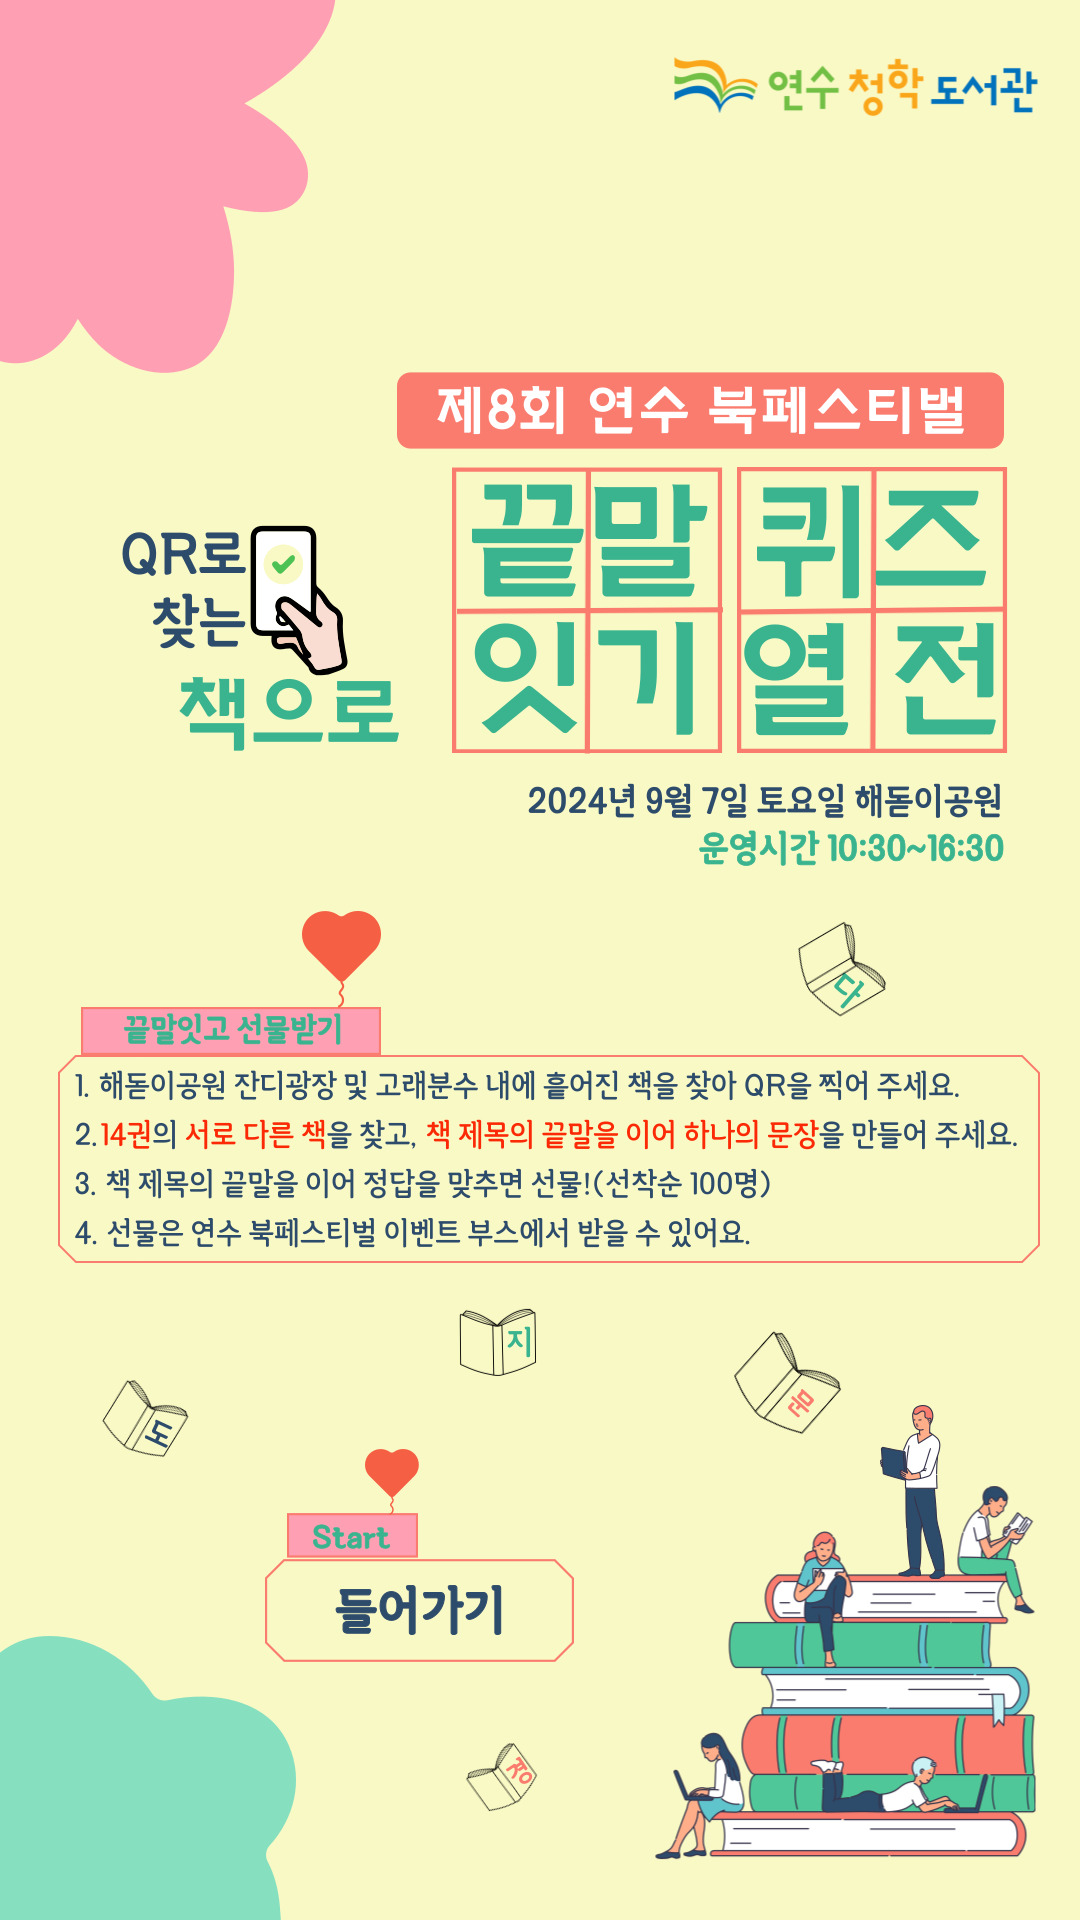
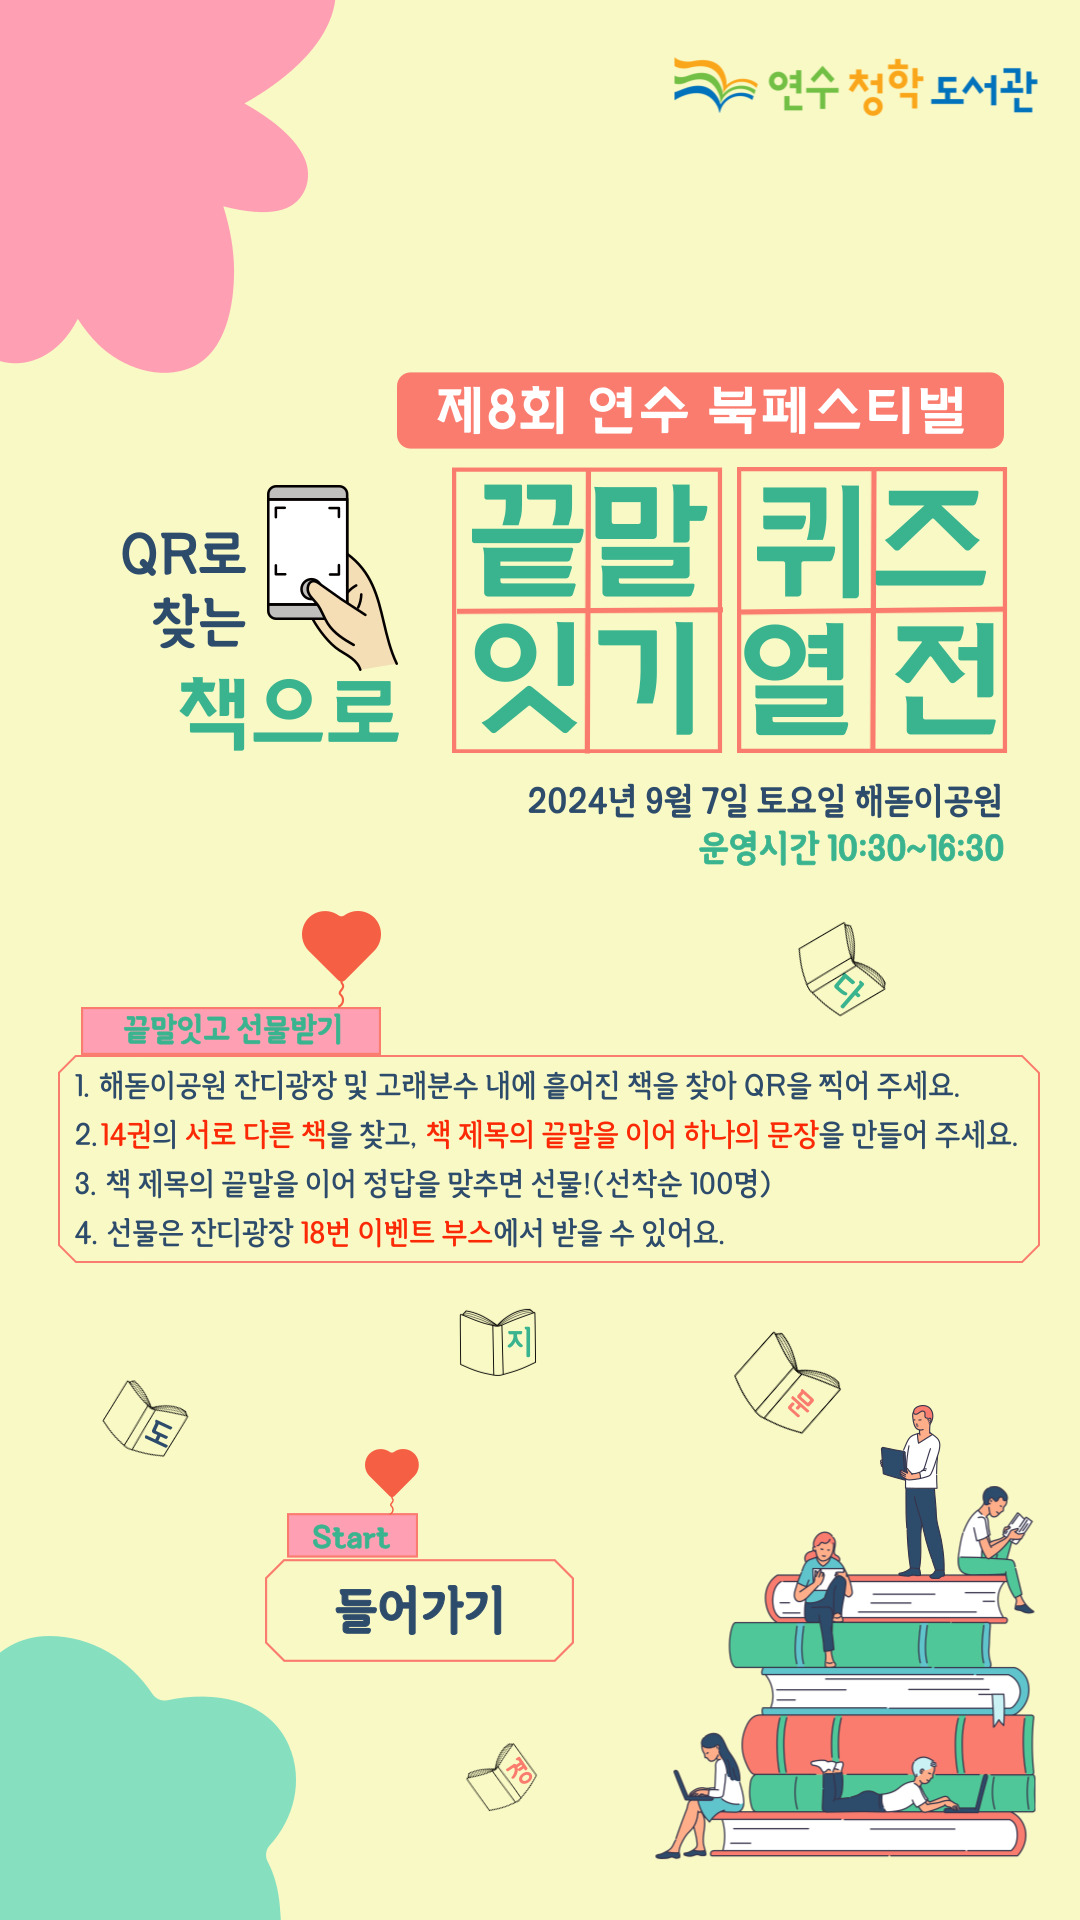
Add files via upload

Changed region(s): [[0.1833, 0.625, 0.7028, 0.6562], [0.2139, 0.25, 0.3667, 0.375]]

diff --git a/quizword/quizword.html b/quizword/quizword.html
@@ -29,7 +29,8 @@
             <area target="_self" href="javascript:void(0);" onclick="checkPosition(13);" coords="792,1608,912,1726" shape="rect" />
             <area target="_self" href="javascript:void(0);" onclick="checkPosition(14);" coords="506,1697,624,1818" shape="rect" />
 
-            <area target="_self" href="javascript:void(0);" onclick="initCookie();" coords="422,157,626,320" shape="rect /">
+            <area target="_self" alt="" href="javascript:void(0);" onclick="gift();" coords="432,165,627,347" shape="rect">
+            <area target="_self" href="javascript:void(0);" onclick="initCookie();" coords="919,257,992,335" shape="rect /">
 
             <area target="_self" href="javascript:void(0);" onclick="quizWord(1);" coords="46,519,228,582" shape="rect" />
             <area target="_self" href="javascript:void(0);" onclick="quizWord(2);" coords="265,519,388,582" shape="rect" />
@@ -105,7 +106,7 @@
         if (!checkAllWord) {
             $('#quizWordImg').after(
             '<div style="position: absolute; top: 20%; left: 3%; background-color: #f9f9c5; width: 95%; height: 13%; font-size: 4.5vw">' +
-            '<p>각 자물쇠를 클릭하고 책표지 QR을 스캔하여</p><p style="margin-top: -20px;">끝말을 획득하세요.</p>' +
+            '<p>각 자물쇠를 클릭한 후 책표지 QR을 스캔하여</p><p style="margin-top: -20px;">끝말을 획득하세요.</p>' +
             '</div>'
             );
         } else {
@@ -120,6 +121,14 @@
 
             if (!checkAllWord) {
                 alert('찾은 끝말을 이어 하나의 문장으로 만들어주세요.');
+            } else {
+                if ($.cookie('gift')) {
+                    $('#quizWordImg').after(
+                        '<img src="img/confirmStamp.png" style="position: absolute; top: 8%; left: 41%; width: 18%;">'
+                    );
+                } else {
+                    alert('축하합니다.\n이제 18번 이벤트 부스로 가서 화면을 인증한 후 선물을 받으세요.');
+                }
             }
         }
     }
@@ -133,7 +142,7 @@
             1: () => {
                 let input1 = prompt("가운데 글자 '서'를 포함하여 3글자 단어를 입력해주세요.", "");
                 if (input1 == '도서관') {
-                    $.cookie('quizWord1', true);
+                    $.cookie('quizWord1', true, { expires : 1 });
                     alert('정답입니다.');
                     return true;
                 } else {
@@ -144,7 +153,7 @@
             2: () => {
                 let input2 = prompt("2글자 단어를 입력해주세요.", "");
                 if (input2 == '지식') {
-                    $.cookie('quizWord2', true);
+                    $.cookie('quizWord2', true, { expires : 1 });
                     alert('정답입니다.');
                     return true;
                 } else {
@@ -155,7 +164,7 @@
             3: () => {
                 let input3 = prompt("첫글자 '문'을 포함하여 2글자 단어를 입력해주세요.", "");
                 if (input3 == '문화') {
-                    $.cookie('quizWord3', true);
+                    $.cookie('quizWord3', true, { expires : 1 });
                     alert('정답입니다.');
                     return true;
                 } else {
@@ -166,7 +175,7 @@
             4: () => {
                 let input4 = prompt("가운데 글자 '경'을 포함하여 3글자 단어를 입력해주세요.", "");
                 if (input4 == '환경을') {
-                    $.cookie('quizWord4', true);
+                    $.cookie('quizWord4', true, { expires : 1 });
                     alert('정답입니다.');
                     return true;
                 } else {
@@ -175,9 +184,9 @@
                 }
             },
             5: () => {
-                let input5 = prompt("2글자 단어를 입력해주세요.", "");
+                let input5 = prompt("첫글자 '서'를 포함하여 2글자 단어를 입력해주세요.", "");
                 if (input5 == '서로') {
-                    $.cookie('quizWord5', true);
+                    $.cookie('quizWord5', true, { expires : 1 });
                     alert('정답입니다.');
                     return true;
                 } else {
@@ -188,7 +197,7 @@
             6: () => {
                 let input6 = prompt("2글자 단어를 입력해주세요.", "");
                 if (input6 == '잇다') {
-                    $.cookie('quizWord6', true);
+                    $.cookie('quizWord6', true, { expires : 1 });
                     alert('정답입니다.');
                     return true;
                 } else {
@@ -229,6 +238,20 @@
         }
     }
 
+    function gift() {
+        let checkAllQuiz = true;
+        for (let i = 1; i < 7; i++) {
+            if (!$.cookie('quizWord' + i)) {
+                checkAllQuiz = false;
+            }
+        }
+
+        if (checkAllQuiz) {
+            $.cookie('gift', true, { expires : 1 });
+            location.href = 'quizword.html';
+        }
+    }
+
     function initCookie() {
         for (let i = 1; i < 15; i++) {
             $.removeCookie('qrPosition' + i)
@@ -237,6 +260,8 @@
         for (let i = 1; i < 7; i++) {
             $.removeCookie('quizWord' + i)
         }
+
+        $.removeCookie('gift');
 
         location.href = 'quizword.html';
     }

diff --git a/escapelib/escapelib.html b/escapelib/escapelib.html
@@ -56,7 +56,7 @@
 
         if ($.cookie('passQuiz')) {
             $('#escapelibImg').after(
-                '<img src="img/stamp/007.png" style="position: absolute; top: -1%; left: 59.8%; width: 31%;">'
+                '<img src="img/stamp/007.png" style="position: absolute; top: -1.3%; left: 59.2%; width: 32%;">'
             );
         }
     }
@@ -71,7 +71,7 @@
         }
 
         if (passQuizCount > 5) {
-            $.cookie('passQuiz', true);
+            $.cookie('passQuiz', true, { expires : 1 });
             $('#escapelibImg').after(
                 '<img src="img/stamp/007.png" style="position: absolute; top: -1%; left: 59.8%; width: 31%;">'
             );

diff --git a/quizword/qr.html b/quizword/qr.html
@@ -139,13 +139,13 @@
 
         for (let i = 1; i < 15; i++) {
             if ($.cookie('qrPosition' + i) == checkMatch) {
-                alert('이미 찾은 문자입니다.\n다른 QR을 찍어주세요.');
+                alert('이미 찾은 책 표지입니다.\n다른 QR을 찍어주세요.');
                 return false;
             }
         }
 
         alert('새로운 문자를 찾았습니다.');
-        $.cookie('qrPosition' + qrPosition, checkMatch);
+        $.cookie('qrPosition' + qrPosition, checkMatch, { expires : 1 });
         location.href = 'quizword.html';
     }
 </script>

diff --git a/quizword/index.html b/quizword/index.html
@@ -12,7 +12,7 @@
     <div style="text-align: center;">
         <img src="img/001.jpg" usemap="#image-map" style="width: 100%;" />
         <map name="image-map">
-            <area target="_self" href="quizword.html" coords="265,1512,574,1663" shape="rect" />
+            <area target="_self" href="quizword.html" coords="263,1511,575,1664" shape="rect" />
         </map>
     </div>
   <script>

diff --git a/escapelib/quiz02.html b/escapelib/quiz02.html
@@ -39,7 +39,7 @@
 
     function checkQuiz() {
         if ($('#input01').val() == '카드') {
-            $.cookie('quiz02', true);
+            $.cookie('quiz02', true, { expires : 1 });
             alert('축하합니다. 다음 단계로 도전하세요.');
             location.href = 'escapelib.html';
         } else if(!$('#input01').val()) {

diff --git a/escapelib/quiz05.html b/escapelib/quiz05.html
@@ -39,7 +39,7 @@
 
     function checkQuiz() {
         if ($('#input01').val() == 21) {
-            $.cookie('quiz05', true);
+            $.cookie('quiz05', true, { expires : 1 });
             alert('축하합니다. 다음 단계로 도전하세요.');
             location.href = 'escapelib.html';
         } else if(!$('#input01').val()) {

diff --git a/escapelib/quiz03.html b/escapelib/quiz03.html
@@ -39,7 +39,7 @@
 
     function checkQuiz() {
         if ($('#input01').val() == 5) {
-            $.cookie('quiz03', true);
+            $.cookie('quiz03', true, { expires : 1 });
             alert('축하합니다. 다음 단계로 도전하세요.');
             location.href = 'escapelib.html';
         } else if(!$('#input01').val()) {

diff --git a/escapelib/quiz04.html b/escapelib/quiz04.html
@@ -39,7 +39,7 @@
 
     function checkQuiz() {
         if ($('#input01').val() == 4) {
-            $.cookie('quiz04', true);
+            $.cookie('quiz04', true, { expires : 1 });
             alert('축하합니다. 다음 단계로 도전하세요.');
             location.href = 'escapelib.html';
         } else if(!$('#input01').val()) {

diff --git a/escapelib/quiz01.html b/escapelib/quiz01.html
@@ -82,7 +82,7 @@
         }
 
         if (isExistLib01 && isExistLib02 && isExistLib03) {
-            $.cookie('quiz01', true);
+            $.cookie('quiz01', true, { expires : 1 });
             alert('축하합니다. 다음 단계로 도전하세요.');
             location.href = 'escapelib.html';
         }

diff --git a/escapelib/quiz06.html b/escapelib/quiz06.html
@@ -40,7 +40,7 @@
     });
 
     function confirmQuiz() {
-        $.cookie('quiz06', true);
+        $.cookie('quiz06', true, { expires : 1 });
         location.href = 'quizpass01.html';
     }
 
